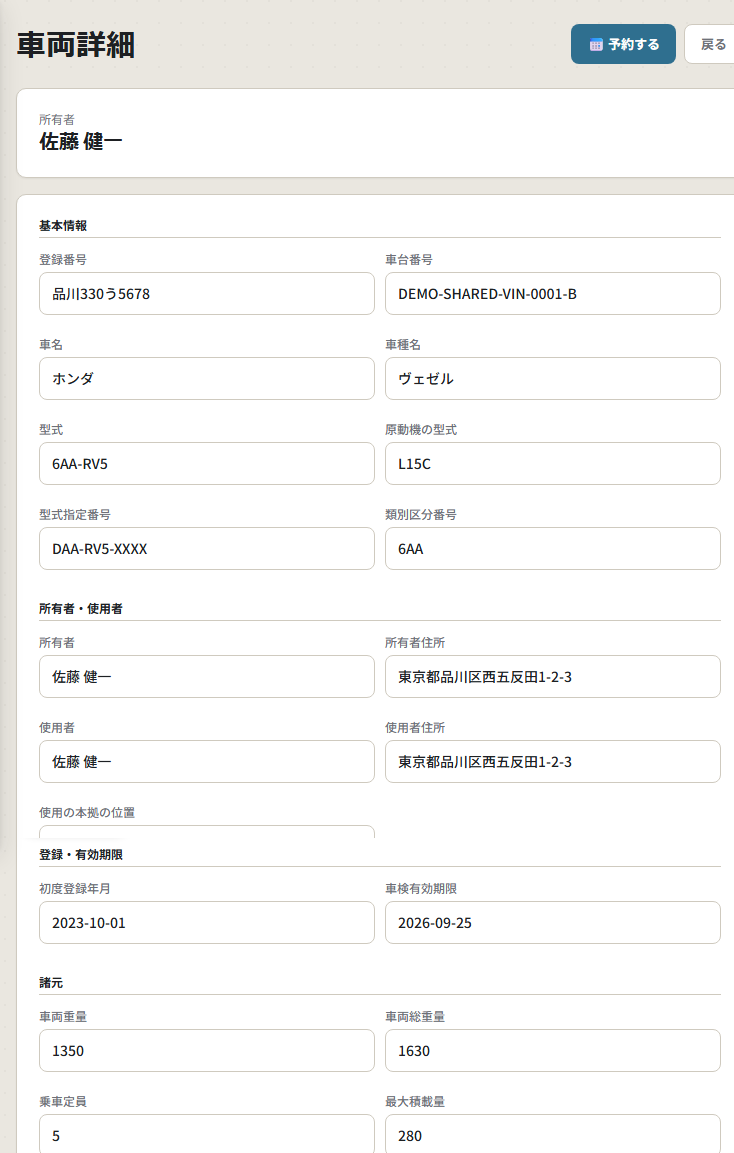
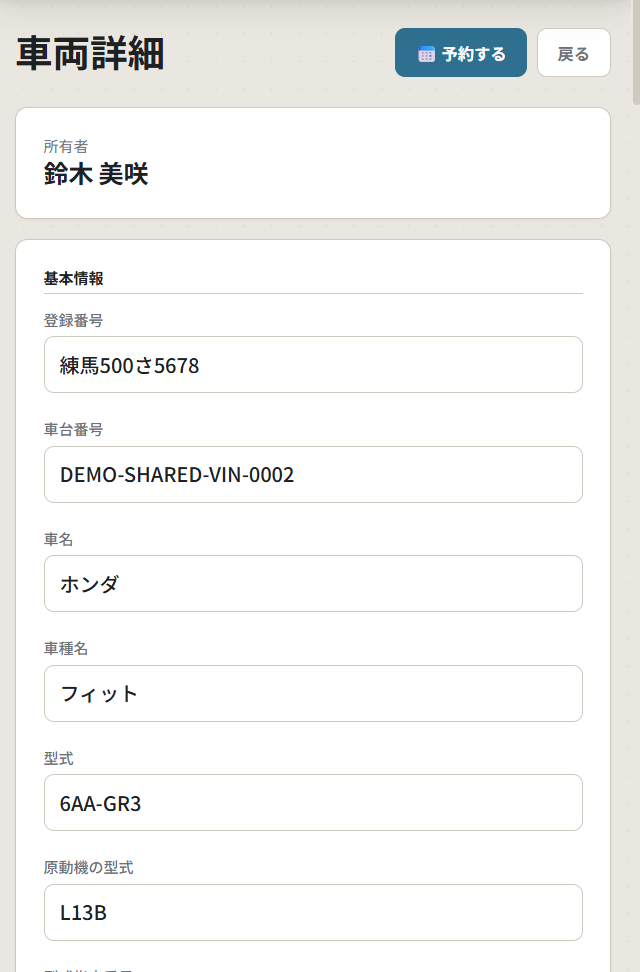
fix: 機能紹介画像を実機のスマホ幅スクリーンショットに差し替え
PC画面をトリミングした画像から、実際にスマホ幅のブラウザで撮影した
本物のスクリーンショット(縦横比0.57〜0.72)に差し替え。PCナビが
一切映り込まず、本来のモバイルレイアウトがそのまま見えるため、
携帯フレームとの見た目の一致度が大きく向上した。フレームの中身の
比率も5:8に合わせて調整。

diff --git a/marketing/components/home/feature-media.tsx b/marketing/components/home/feature-media.tsx
@@ -5,8 +5,8 @@ import type { Feature } from '@/lib/features'
 /**
  * 機能紹介の各項目に添える画像/動画。実機のスマートフォン本体のような縦長フレーム
  * (ベゼル・ノッチ・ホームインジケーター)の中に、実際のアプリ画面のスクリーンショットを収める。
- * mediaSrcはPCスクリーンショットからサイドバー・上部ナビを除いて縦長(概ね9:10)に
- * 切り出し済みの画像を指しているため、object-containでも余白がほぼ出ず全体を大きく表示できる。
+ * mediaSrcは実機のスマホ幅ブラウザで撮影した本物のスクリーンショット(概ね0.57〜0.72の
+ * 縦長比率)を指しているため、object-containでも余白がほぼ出ず全体を大きく表示できる。
  * mediaSrcが未設定の間はプレースホルダー枠を表示し、動画(mediaType:'video')は
  * 自動再生・ループ・ミュートで、実際に操作しているような短い動きを見せる想定。
  */
@@ -78,7 +78,7 @@ function PhoneFrame({ children }: { children: React.ReactNode }) {
             <div className="pointer-events-none absolute left-1/2 top-1/2 z-20 h-5 w-20 -translate-x-1/2 -translate-y-1/2 rounded-full bg-black" aria-hidden="true" />
           </div>
 
-          <div className="relative aspect-[3/4] w-full overflow-hidden bg-neutral-100">{children}</div>
+          <div className="relative aspect-[5/8] w-full overflow-hidden bg-neutral-100">{children}</div>
 
           {/* ホームインジケーター(専用の帯) */}
           <div className="flex h-6 shrink-0 items-center justify-center rounded-b-[2.4rem] bg-neutral-100">
